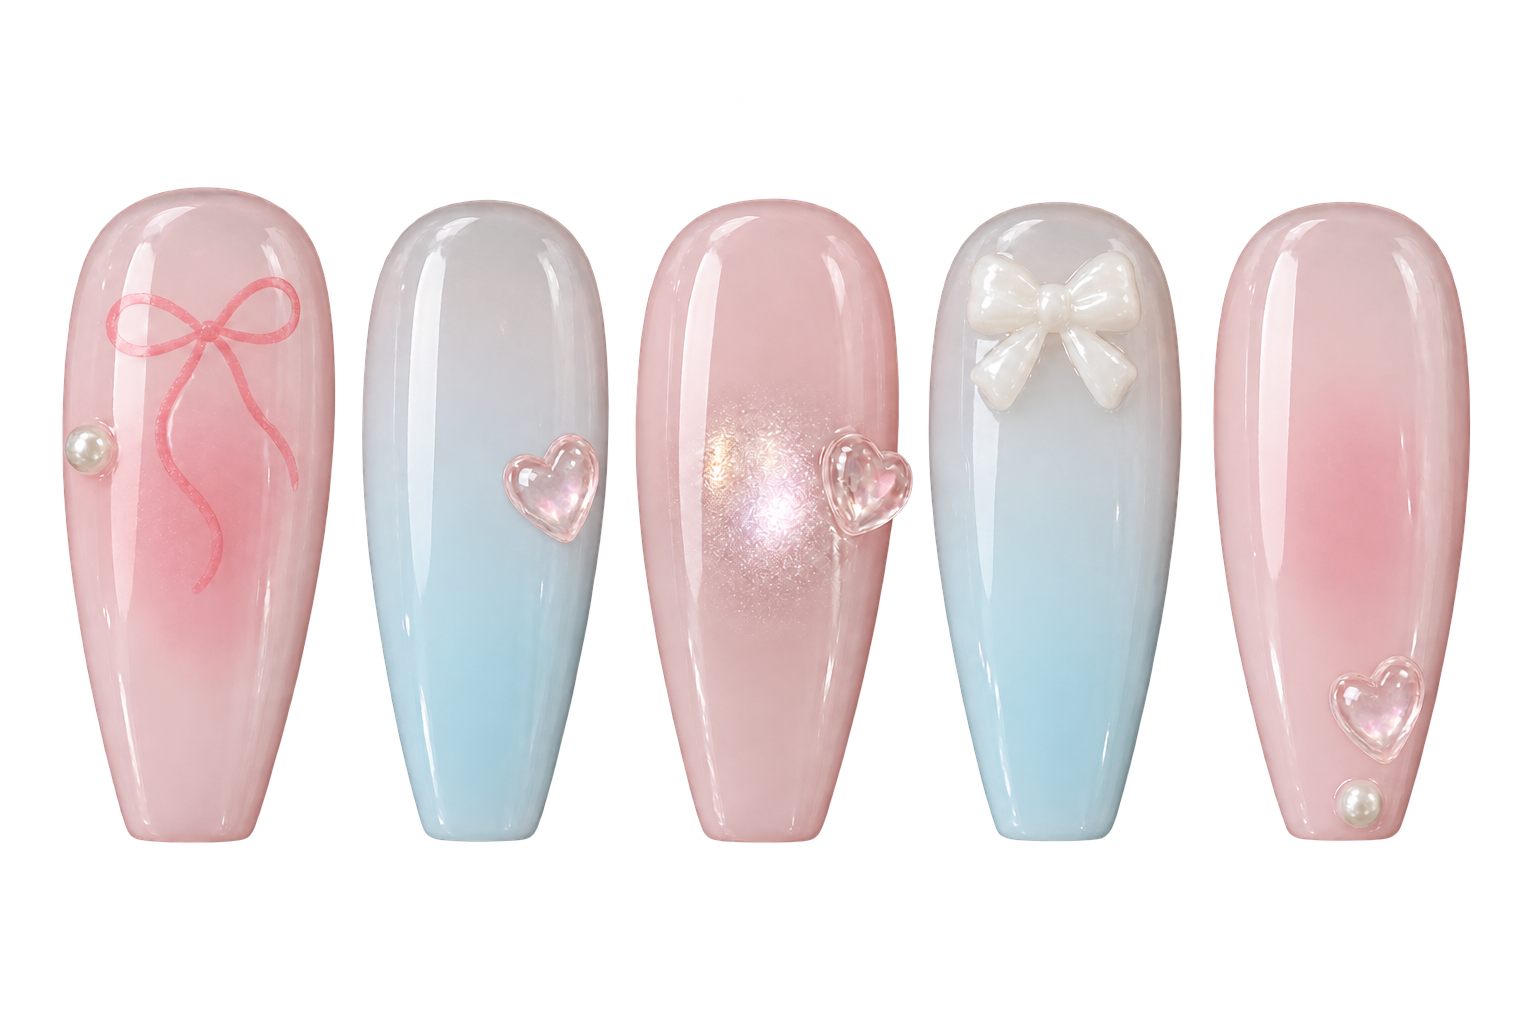
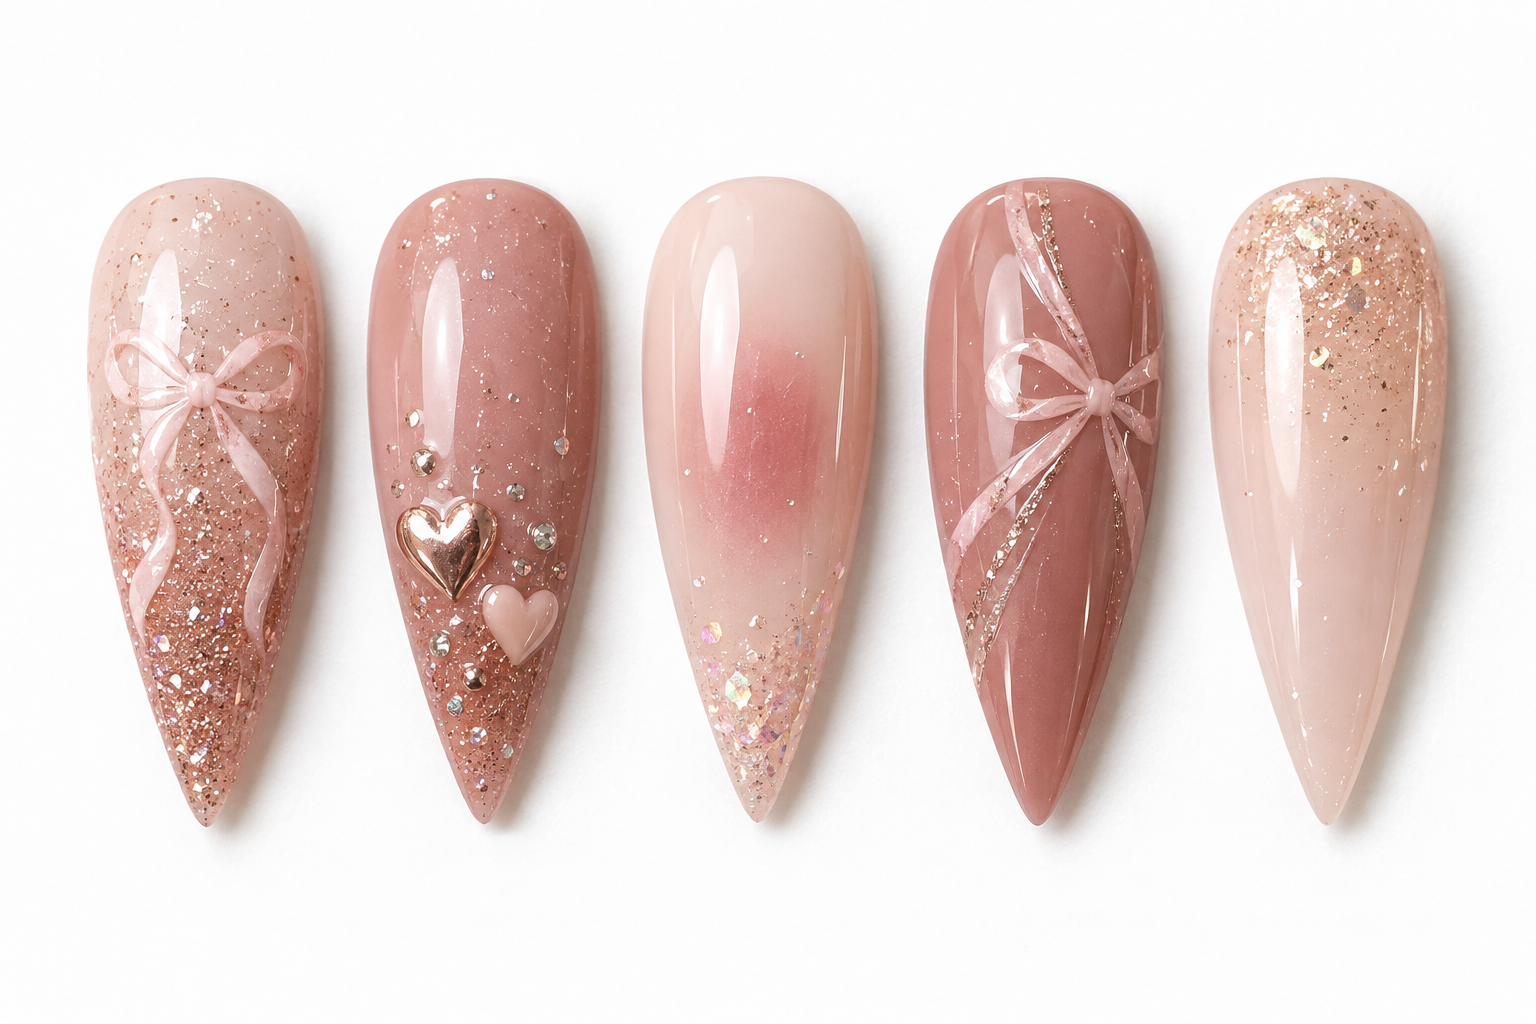
feat: 디자인 채팅 옵션 툴팁을 3:2 예시 사진에 맞게 넓히고 화면 밖으로 나가지 않게 하기
- 툴팁 카드 폭을 240px로 넓히고 이미지를 3:2 비율, contain으로 표시
- 앵커 위치를 CSS 변수로 넘겨 clamp로 뷰포트 안쪽에 고정
- drawing 예시 이미지를 drawing.png로 연결, floral 설명 문구 수정
- lovely, heart 예시 사진 교체, polka dot.png 파일명을 polka-dot.png로 정리

diff --git a/Frontend/src/shared/constants/designPreferences.ts b/Frontend/src/shared/constants/designPreferences.ts
@@ -122,12 +122,12 @@ export const PREFERENCE_OPTION_INFO: Partial<Record<PreferenceKey, Record<string
     magnetic: { desc: '자석 젤로 오로라 같은 입체적인 빛 무늬를 만드는 디자인', image: '/images/nail-sample/design-type/magnetic.png' },
     powder: { desc: '고운 컬러 파우더를 발라 매트하고 벨벳 같은 광을 내는 디자인', image: '/images/nail-sample/design-type/powder.png' },
     matte: { desc: '광택 없이 무광으로 마무리해 차분한 느낌을 주는 디자인', image: '/images/nail-sample/design-type/matte.png' },
-    drawing: { desc: '손그림·스톤 등으로 직접 그림을 그려 넣는 디자인', image: '/images/nail-sample/design-type/art.png' },
+    drawing: { desc: '손그림·스톤 등으로 직접 그림을 그려 넣는 디자인', image: '/images/nail-sample/design-type/drawing.png' },
   },
   motif: {
     star: { desc: '별 모양 포인트로 반짝이는 느낌', image: '/images/nail-sample/motif/star.png' },
     ribbon: { desc: '리본 모양 장식으로 사랑스러운 포인트', image: '/images/nail-sample/motif/ribbon.png' },
-    floral: { desc: '꽃 패턴으로 화사하고 로맨틱한 느낌', image: '/images/nail-sample/motif/floral.png' },
+    floral: { desc: '꽃 패턴으로 화사하고 감성적인 느낌', image: '/images/nail-sample/motif/floral.png' },
     heart: { desc: '하트 모양으로 사랑스럽고 귀여운 포인트', image: '/images/nail-sample/motif/heart.png' },
     crystal: { desc: '크고 작은 큐빅 장식으로 화려한 반짝임', image: '/images/nail-sample/motif/crystal.png' },
     pearl: { desc: '진주알의 은은한 광택 장식', image: '/images/nail-sample/motif/pearl.png' },

diff --git a/Frontend/src/styles/design-chat.css b/Frontend/src/styles/design-chat.css
@@ -1167,12 +1167,20 @@
 }
 
 .design-chat__option-tooltip {
+    /* 예시 사진이 3:2 가로형이라, 예전 정사각형 칸과 비슷한 크기로 보이도록 카드를 넓혔다 */
+    --design-chat-tooltip-width: 240px;
     position: fixed;
     z-index: 4000;
+    /* 앵커 가운데(--design-chat-tooltip-anchor-x)에 맞추되, 화면 가장자리 옵션에서도 카드가 뷰포트 밖으로 나가지 않게 한다 */
+    left: clamp(
+        calc(var(--design-chat-tooltip-width) / 2 + 8px),
+        var(--design-chat-tooltip-anchor-x),
+        calc(100vw - var(--design-chat-tooltip-width) / 2 - 8px)
+    );
     display: flex;
     flex-direction: column;
     align-items: center;
-    width: 200px;
+    width: var(--design-chat-tooltip-width);
     padding: 0.85rem 0.9rem 1rem;
     border-radius: 16px;
     background: #fff;
@@ -1196,11 +1204,12 @@
     }
 }
 
+/* public/images/nail-sample 예시 사진 원본(1536x1024)과 같은 3:2 비율. contain이라 비율이 다른 사진이 와도 잘리지 않는다 */
 .design-chat__option-tooltip-img {
     width: 100%;
-    aspect-ratio: 1;
+    aspect-ratio: 3 / 2;
     border-radius: 12px;
-    object-fit: cover;
+    object-fit: contain;
     margin-bottom: 0.6rem;
     box-shadow: inset 0 0 0 1px rgba(0, 0, 0, 0.06);
 }

diff --git a/Frontend/src/features/nail-design/components/DesignChatConversation.tsx b/Frontend/src/features/nail-design/components/DesignChatConversation.tsx
@@ -1,4 +1,4 @@
-import { Fragment, useState, type ReactElement } from 'react'
+import { Fragment, useState, type CSSProperties, type ReactElement } from 'react'
 import { createPortal } from 'react-dom'
 import { DesignImageDetailModal } from '@/features/mypage/components/DesignImageDetailModal'
 import {
@@ -1150,7 +1150,12 @@ export function DesignChatConversation(props: DesignChatConversationProps) {
                 createPortal(
                     <div
                         className="design-chat__option-tooltip"
-                        style={{ top: tooltipAnchor.top - 8, left: tooltipAnchor.left }}
+                        style={
+                            {
+                                top: tooltipAnchor.top - 8,
+                                '--design-chat-tooltip-anchor-x': `${tooltipAnchor.left}px`,
+                            } as CSSProperties
+                        }
                         role="tooltip"
                     >
                         {tooltipAnchor.info.image && !tooltipImgError ? (
